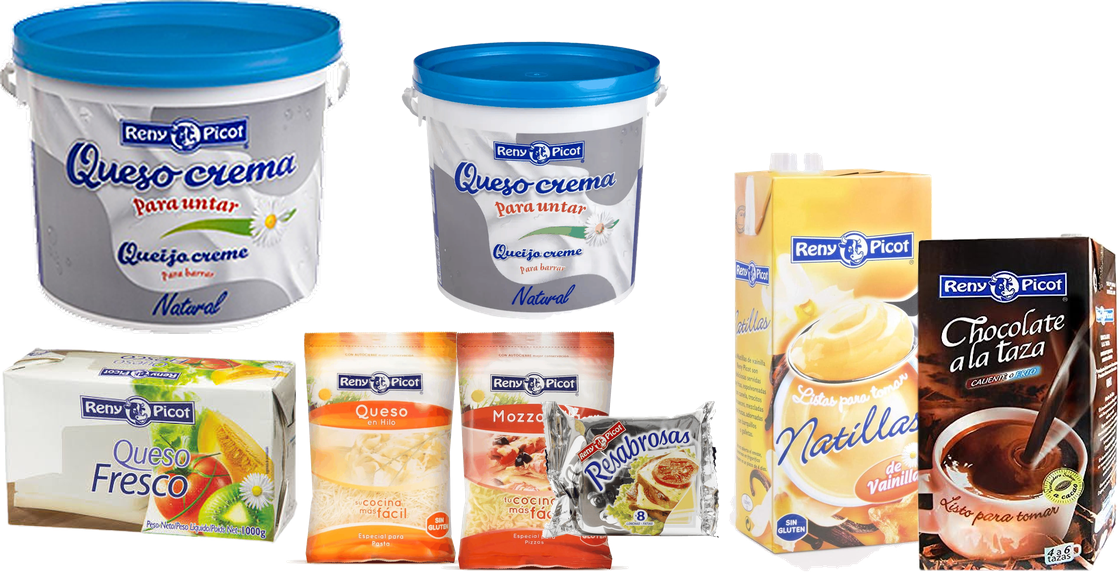
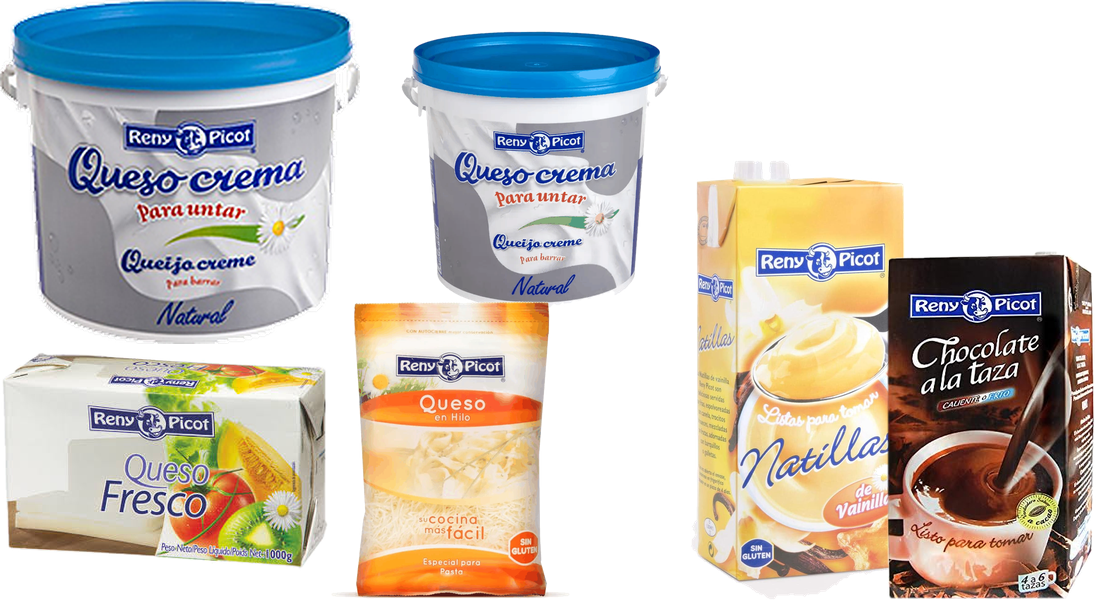
Refrigerados: bodegón de Reny Picot con las referencias pedidas y todas las fichas con foto incrustada
Claude-Session: https://claude.ai/code/session_01TfVuY2sTVvMwp4RqzYabW2

diff --git a/refrigerados-products.js b/refrigerados-products.js
@@ -37,7 +37,7 @@
       lead:'Queso para untar, queso de Burgos, mozzarella, rallados y lonchas. Y, de Reny Picot, natillas y chocolate a la taza.',
       media:[
         {src:B+'reny-picot-logo.png', w:212, h:62, alt:'Reny Picot', cls:'rf-m-brand'},
-        {src:B+'reny-picot-bodegon.png', w:1120, h:572, alt:'Reny Picot de hostelería: queso crema en cubos de 5 y 2 kg, queso fresco de 1 kg, queso en hilo, mozzarella, lonchas, natillas de vainilla y chocolate a la taza', cls:'rf-m-hero rf-m-cut'}
+        {src:B+'reny-picot-bodegon.png', w:1096, h:600, alt:'Reny Picot de hostelería: queso crema para untar en cubos de 2 y 5 kg, queso fresco de 1 kg, queso rallado, natillas de vainilla y chocolate a la taza', cls:'rf-m-hero rf-m-cut'}
       ] },
     { id:'pozo', n:'08', chip:'El Pozo', kicker:'El Pozo', title:'El Pozo',
       lead:'Bacon, paleta, taquitos de jamón y salchichas para hostelería, y jamón en formato sobre para alimentación.',
@@ -94,7 +94,7 @@
     {group:'Salchichas',brand:'Campofrío',name:'Salchichas Frankfurt · pack de 4 × 140 g',blk:'salchichas',uso:'',cod:'26084',image:'assets/refrigerados/extra/campofrio_salchichas-frankfurt-4x140g.png',w:720,h:720,alt:'Salchichas Frankfurt La Original de Campofrío, pack de 4 sobres de 140 g'},
     {group:'Salchichas',brand:'El Pozo',name:'Salchichas cocktail · 1 kg',blk:'salchichas,pozo',uso:'h',cod:'20120',peek:'assets/refrigerados/extra/elpozo_salchichas-cocktail-1kg.png',pw:634,ph:625,peekAlt:'Salchichas cocktail de ElPozo, bolsa de 1 kg (100 unidades)'},
     {group:'Salchichas',brand:'Oscar Mayer',name:'Salchichas Jumbo · 350 g',blk:'salchichas',uso:'',cod:'26121',image:'assets/refrigerados/extra/oscar-mayer_salchichas-jumbo-y-bacon-en-lonchas.png',w:720,h:720,alt:'Salchichas Jumbo Oscar Mayer'},
-    {group:'Quesos',brand:'Reny Picot',name:'Queso de Burgos · brik de 1 kg',blk:'quesos',uso:'',cod:'17050',peek:'assets/refrigerados/extra/reny-picot_queso-fresco-1kg.png',pw:358,ph:240,peekAlt:'Queso fresco Reny Picot, brik de 1.000 g'},
+    {group:'Quesos',brand:'Reny Picot',name:'Queso de Burgos · brik de 1 kg',blk:'quesos',uso:'',cod:'17050',image:'assets/refrigerados/extra/reny-picot_queso-fresco-1kg.png',w:358,h:240,alt:'Queso fresco Reny Picot, brik de 1.000 g'},
     {group:'Quesos',brand:'Reny Picot',name:'Queso de Burgos · 4 × 62,5 g',blk:'quesos',uso:'',cod:'17002'},
     {group:'Quesos',brand:'Reny Picot',name:'Queso en lonchas · 8 unidades',blk:'quesos',uso:'',cod:'17080',image:'assets/refrigerados/extra/reny-picot_queso-en-lonchas.png',w:720,h:720,alt:'Queso en lonchas Reny Picot'},
     {group:'Quesos',brand:'Reny Picot',name:'Emmental rallado · 60 g',blk:'quesos',uso:'',cod:'17005',image:'assets/refrigerados/extra/reny-picot_quesos-rallados.png',w:720,h:720,alt:'Quesos rallados Reny Picot'},
@@ -103,8 +103,8 @@
     {group:'Quesos',brand:'Reny Picot',name:'Mozzarella · 150 g',blk:'quesos',uso:'',cod:'17004',image:'assets/refrigerados/extra/reny-picot_mozzarella-150g.png',w:720,h:720,alt:'Mozzarella Reny Picot, 150 g'},
     {group:'Quesos',brand:'Reny Picot',name:'Queso para untar · 2 kg',blk:'quesos',uso:'',cod:'17020',image:'assets/refrigerados/reny-crema-2kg.png',w:1000,h:1000,alt:'Cubo de queso crema natural Reny Picot de 2 kg'},
     {group:'Quesos',brand:'Reny Picot',name:'Queso para untar · cubo de 5 kg',blk:'quesos',uso:'',cod:'17018',image:X+'reny-picot_queso-crema-5kg.png',w:404,h:386,alt:'Cubo de queso crema para untar Reny Picot de 5 kg'},
-    {group:'Quesos',brand:'Reny Picot',name:'Natillas de vainilla · listas para tomar',blk:'quesos',uso:'',peek:'assets/refrigerados/extra/reny-picot_natillas-vainilla.png',pw:441,ph:900,peekAlt:'Natillas de vainilla Reny Picot, brik listo para tomar y sin gluten'},
-    {group:'Quesos',brand:'Reny Picot',name:'Chocolate a la taza · caliente o frío',blk:'quesos',uso:'',peek:'assets/refrigerados/extra/reny-picot_chocolate-a-la-taza.png',pw:298,ph:496,peekAlt:'Chocolate a la taza Reny Picot, brik listo para tomar, caliente o frío'},
+    {group:'Quesos',brand:'Reny Picot',name:'Natillas de vainilla · listas para tomar',blk:'quesos',uso:'',image:'assets/refrigerados/extra/reny-picot_natillas-vainilla.png',w:441,h:900,alt:'Natillas de vainilla Reny Picot, brik listo para tomar y sin gluten'},
+    {group:'Quesos',brand:'Reny Picot',name:'Chocolate a la taza · caliente o frío',blk:'quesos',uso:'',image:'assets/refrigerados/extra/reny-picot_chocolate-a-la-taza.png',w:298,h:496,alt:'Chocolate a la taza Reny Picot, brik listo para tomar, caliente o frío'},
     {group:'Quesos',brand:'Tranchetes',name:'Tranchetes · 7 lonchas, 131 g',blk:'quesos',uso:'',cod:'30000',image:'assets/refrigerados/extra/sin-marca-confirmada_queso-fundido-en-lonchas-131g.png',w:720,h:720,alt:'Queso fundido en lonchas, 131 g'},
     {group:'El Pozo',brand:'El Pozo',name:'Barqueta de bacon · 1 kg',blk:'pozo',uso:'h',cod:'20001',peek:'assets/refrigerados/extra/elpozo_bacon-1kg.png',pw:423,ph:276,peekAlt:'Bacon en lonchas, barqueta doble de 1 kg'},
     {group:'El Pozo',brand:'El Pozo',name:'Fiambre de paleta para sándwich · 4 kg',blk:'pozo',uso:'h',cod:'20004',peek:'assets/refrigerados/extra/elpozo_paleta-sandwich-4kg.png',pw:650,ph:1000,peekAlt:'Fiambre de paleta para sándwich de ElPozo, pieza de 4 kg'},

diff --git a/refrigerados.html b/refrigerados.html
@@ -82,7 +82,7 @@
   </main>
   <footer class="pw-footer"><span>Fotografías de producto: Reny Picot, Pascual, Rogusa y Campofrío</span><a href="https://www.facebook.com/share/1LfPCX2kSw/" target="_blank" rel="noopener">Facebook</a><a href="https://www.instagram.com/distrvalentinmartin/" target="_blank" rel="noopener">Instagram</a><a href="aviso-legal.html">Aviso legal</a><a href="privacidad.html">Política de privacidad</a><a href="index.html#inicio">Volver a inicio ↑</a></footer>
   <script src="precios.js?v=e91f9a24" defer></script>
-  <script src="refrigerados-products.js?v=3e28aea5" defer></script>
+  <script src="refrigerados-products.js?v=0b4da8d6" defer></script>
 <script src="site-header.js?v=9aa16ac1" defer></script>
 <script src="cookies.js?v=a255d7c1" defer></script>
 <script src="estadisticas.js?v=30c3e111" defer></script>
